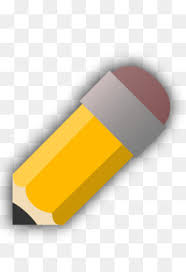
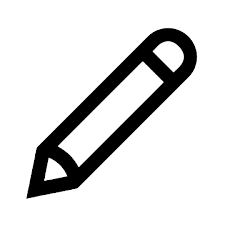
atualização

diff --git a/css/estiloCliente.css b/css/estiloCliente.css
@@ -6,7 +6,6 @@
     margin: 0;
     padding: 0;
     box-sizing: border-box;
-
 }
 
 /* ESTILOS DO HEADER */
@@ -23,7 +22,6 @@ header {
     padding: 20px;
     background-color: #005A8A;
     box-shadow: 0 0 10px rgba(0, 0, 0, 0.1);
-
 }
 
 .imagem_logo img {
@@ -55,7 +53,6 @@ header {
     color: #fff;
     box-shadow: 0 3px 10px 0 #ccc;
     text-shadow: 0px 0px 5px #fff;
-
     border: outset;
     border-style: solid;
     border-width: 5px;
@@ -81,7 +78,6 @@ header {
 .menu li ul li {
     display: block;
     width: 150px;
-
 }
 
 label {
@@ -94,7 +90,6 @@ h1 {
     color: #FFFFFF;
     margin-top: 0;
 }
-
 
 /* ESTILOS DO MAIN */
 main {
@@ -131,7 +126,6 @@ h2 {
     overflow: hidden;
 }
 
-
 .pousada img {
     max-width: 400px;
     max-height: 300px;
@@ -146,6 +140,21 @@ h3 {
     color: blue;
 }
 
+.estila_tabela {
+    text-align: center;
+    margin: 0 auto;
+}
+
+.tabela_cabecalho {
+    text-align: center;
+}
+
+.botao_acao {
+    max-width: 200px;
+    max-height: 100px;
+    object-fit: cover;
+}
+
 .pousada a {
     text-align: center;
     font-size: 20px;
@@ -158,7 +167,9 @@ p {
     font-size: 16px;
     line-height: 1.5;
 }
-
+table{
+    margin: 0 auto;
+}
 /* Estilos para o rodapé */
 footer {
     background-color: #f2f2f2;

diff --git a/admin/pousadas/exibir.php b/admin/pousadas/exibir.php
@@ -1,75 +1,78 @@
 <?php require('../topo_admin.php');
 
-	require('../../conexao.php');
+require('../../conexao.php');
 
 
-	$select_pousada = mysqli_query($conexao, "SELECT * FROM pousada ORDER BY id_pousada ASC");
-				
-	
-		if (mysqli_num_rows($select_pousada) > 0) {
-			
-			$dados_pousada = mysqli_fetch_assoc($select_pousada);
-			
-		} else {
-			
-			echo "<script> alert ('NÃO EXISTEM POUSADAS CADASTRADOS!');</script>";
-				
-			echo "<script> window.location.href='$url_admin/pousadas';</script>";
-			
-			
-		}
+$select_pousada = mysqli_query($conexao, "SELECT * FROM pousada ORDER BY id_pousada ASC");
+
+
+if (mysqli_num_rows($select_pousada) > 0) {
+
+	$dados_pousada = mysqli_fetch_assoc($select_pousada);
+
+} else {
+
+	echo "<script> alert ('NÃO EXISTEM POUSADAS CADASTRADOS!');</script>";
+
+	echo "<script> window.location.href='$url_admin/pousadas';</script>";
+
+
+}
 
 
 ?>
 
 
 
-		<div class="estila_tabela">
+<div class="estila_tabela">
 
-			<div><h1>POUSADAS CADASTRADOS</h1></div>
+	<h1>POUSADAS CADASTRADOS</h1>
+	<table>
 
-				<table>
-					
-					<tr class="tabela_cabecalho">
+		<tr class="tabela_cabecalho">
 
-						<td>CÓDIGO</td>
-						<td>NOME</td>
-						<td colspan="2">Ação</td>
+			<td>CÓDIGO</td>
+			<td>NOME</td>
+			<td colspan="2">Ação</td>
 
-					</tr>
-
+		</tr>
 
 
-				<?php do{
+
+		<?php do {
 
 
-					?>
-					
-					<tr>
+			?>
 
-						<td><?php echo $dados_pousada['id_pousada'];?></td>
-						<td><?php echo $dados_pousada['nome'];?></td>
-						<td>
+			<tr>
 
-							<a href="editar.php?codigo_curso=<?php echo $dados_pousada['id_pousada'];?>">
-								<img src="../../img/banner-pen.png" class="botao_acao" title="Editar">
-							</a>
-						</td>
+				<td>
+					<?php echo $dados_pousada['id_pousada']; ?>
+				</td>
+				<td>
+					<?php echo $dados_pousada['nome']; ?>
+				</td>
+				<td>
 
-						<td>
+					<a href="editar.php?codigo_curso=<?php echo $dados_pousada['id_pousada']; ?>">
+						<img src="../../img/editar.png" class="botao_acao" title="Editar">
+					</a>
+				</td>
 
-							<a href="javascript:func()" onclick="confirmar_exclusao('<?php echo $dados_pousada['id_pousada'];?>')">
-								<img src="../../img/lixeira.png" class="botao_acao" title="Excluir">
-							</a>
-						</td>
-						
-					</tr>
+				<td>
 
-				<?php }while ($dados_pousada = mysqli_fetch_assoc($select_pousada));?>
+					<a href="javascript:func()" onclick="confirmar_exclusao('<?php echo $dados_pousada['id_pousada']; ?>')">
+						<img src="../../img/lixeira.png" class="botao_acao" title="Excluir">
+					</a>
+				</td>
 
-				</table>
+			</tr>
 
-		</div>
+		<?php } while ($dados_pousada = mysqli_fetch_assoc($select_pousada)); ?>
+
+	</table>
+
+</div>
 
 </body>
 

diff --git a/admin/pousadas/index.php b/admin/pousadas/index.php
@@ -1,26 +1,45 @@
-<?php require('../topo_admin.php');?>
+<?php require('../topo_admin.php'); ?>
 
 
 
-	<form id="form_pousada" name="form_pousada" method="post" action="salvar.php" class="form_pousada">
+<form id="form_pousada" name="form_pousada" method="post" action="salvar.php" class="form_pousada">
 
-			<div><h1>CADASTRAR POUSADA</h1></div>
+	<div>
+		<h1>CADASTRAR POUSADA</h1>
+	</div>
 
-				<div class="agrupamento_pousada">
+	<div class="agrupamento_pousada">
 
-						<div>
-							<div><label>Nome do pousada</label></div>	
+		<div>
+			<div><label>Nome da pousada</label></div>
+			<div><input type="text" id="nome_pousada" name="nome_pousada" required autofocus></div>
+		</div>
 
-							<div><input type="text" id="nome" name="nome" required autofocus></div>
+		<div>
+			<div><label>Foto</label></div>
+			<div><input type="file" id="foto" name="foto" accept="image/*" required></div>
+		</div>
 
-						</div>
+		<div>
+			<div><label>Número do celular</label></div>
+			<div><input type="text" id="celular" name="celular" required></div>
+		</div>
 
-						
-				</div>
+		<div>
+			<div><label>Endereço</label></div>
+			<div><textarea id="endereco" name="endereco" required></textarea></div>
+		</div>
 
-				<div><input type="submit" id="btn_entrar" name="btn_entrar" value="Salvar"></div>
+		<div>
+			<div><label>Descrição</label></div>
+			<div><textarea id="descricao" name="descricao" required></textarea></div>
+		</div>
 
-		</form>
+	</div>
+
+	<div><input type="submit" id="btn_entrar" name="btn_entrar" value="Salvar"></div>
+
+</form>
 
 </body>
 

diff --git a/cliente/topo_cliente.php b/cliente/topo_cliente.php
@@ -40,9 +40,7 @@ if (!isset($_SESSION['nome_login'])) {
 				<li><a href="#">Perfil</a>
 
 					<ul>
-						<li><a href="<?php echo $_SESSION['url_cliente'] . "/perfil/perfil.php"; ?>">Cadastrar</a></li>
 						<li><a href="<?php echo $_SESSION['url_cliente'] . "/perfil/editar.php"; ?>">Editar</a></li>
-						<li><a href="<?php echo $_SESSION['url_cliente'] . "/perfil/excluir.php"; ?>">Excluir</a></li>
 						<li><a href="<?php echo $_SESSION['url_cliente'] . "/perfil/exibir.php"; ?>">Exibir</a></li>
 					</ul>
 

diff --git a/admin/pousadas/editar.php b/admin/pousadas/editar.php
@@ -2,7 +2,7 @@
 
 require('../../conexao.php');
 
-$id_pousada = $_POST['id_pousada'];
+$id_pousada = $_GET['codigo_curso'];
 
 $select_pousada = mysqli_query($conexao, "SELECT * FROM `pousada` WHERE id_pousada = $id_pousada");
 
@@ -16,8 +16,6 @@ if (mysqli_num_rows($select_pousada) > 0) {
 	echo "<script> alert ('NÃO EXISTEM CURSOS CADASTRADOS!');</script>";
 
 	echo "<script> window.location.href='$url_admin/pousadas';</script>";
-
-
 }
 
 
